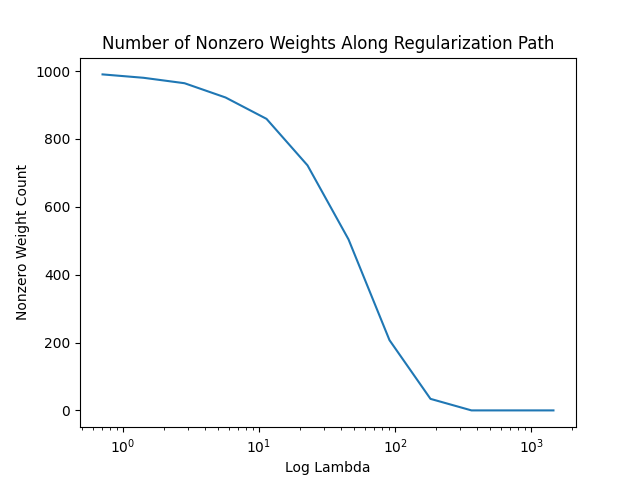
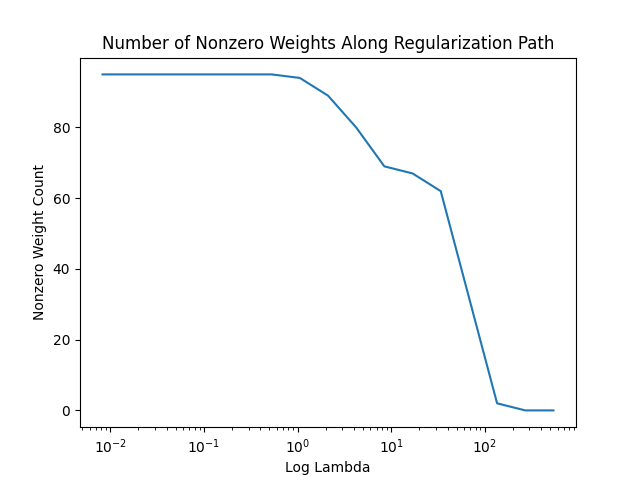
Complete hw2

diff --git a/hw2-A/homeworks/lasso/crime_data_lasso.py b/hw2-A/homeworks/lasso/crime_data_lasso.py
@@ -15,7 +15,75 @@ def main():
     # Make sure you split them into observations and targets
     df_train, df_test = load_dataset("crime")
 
-    raise NotImplementedError("Your Code Goes Here")
+    y_train = df_train["ViolentCrimesPerPop"]
+    X_train = df_train.drop("ViolentCrimesPerPop", axis = 1)
+
+    y_test = df_test["ViolentCrimesPerPop"]
+    X_test = df_test.drop("ViolentCrimesPerPop", axis = 1)
+
+    lambda_max = 2 * max(np.abs(np.matmul(X_train.T, y_train - np.mean(y_train))))
+    _lambda = np.array([lambda_max])
+    weights = np.zeros((1, X_train.shape[1]))
+    num_nonzero = np.array([0])
+
+    while (_lambda[_lambda.size - 1] >= 0.01):
+        w_hat = train(X_train.values, y_train.values, _lambda[-1], start_bias = 0, start_weight = weights[-1])[0]
+        num_nonzero = np.append(num_nonzero, np.count_nonzero(w_hat))
+        weights = np.vstack([weights, w_hat])
+        _lambda = np.append(_lambda, _lambda[-1] / 2)
+
+    # Plot number of nonzero weights along regularization path (c)
+    plt.plot(_lambda, num_nonzero)
+    plt.title("Number of Nonzero Weights Along Regularization Path")
+    plt.xlabel("Log Lambda")
+    plt.ylabel("Nonzero Weight Count")
+    plt.xscale('log')
+    plt.savefig("regularization_path_plot.png")
+    plt.show()
+
+    plt.cla()
+    plt.clf()
+
+    # Plot regularization paths of weights (d)
+    vars = ["agePct12t29", "pctWSocSec", "pctUrban", "agePct65up", "householdsize"]
+    idx = X_train.columns.get_indexer(vars)
+
+    lines = plt.plot(_lambda, weights[:, idx])
+    plt.title("Regularization Path of Selected Weights")
+    plt.xlabel("Log Lambda")
+    plt.ylabel("Weights")
+    plt.xscale('log')
+    plt.legend(lines, vars)
+    plt.savefig("regularization_path_weights.png")
+    plt.show()
+
+    plt.cla()
+    plt.clf()
+
+    # Plot squared error against lambda (e)
+    sse_train = np.zeros(_lambda.size)
+    sse_test = np.zeros(_lambda.size)
+    for i in range(_lambda.size):
+        y_hat_train = np.matmul(X_train, weights[i, :])
+        y_hat_test = np.matmul(X_test, weights[i, :])
+        sse_train[i] = np.matmul((y_train - y_hat_train).T, y_train - y_hat_train)
+        sse_test[i] = np.matmul((y_test - y_hat_test).T, y_test - y_hat_test)
+
+    sse = np.vstack((sse_train, sse_test))
+    lines = plt.plot(_lambda, sse.T)
+    plt.title("Regularization Path of Squared Error")
+    plt.xlabel("Log Lambda")
+    plt.ylabel("SSE")
+    plt.xscale('log')
+    plt.legend(lines, ["Train SSE", "Test SSE"])
+    plt.savefig("regularization_path_sse.png")
+    plt.show()
+
+    # Extreme weights for fixed lambda (f)
+    w_hat = train(X_train.values, y_train.values, _lambda = 30)[0]
+    print(f"The maximum w_hat is {np.max(w_hat)}, which is on {X_train.columns[np.argmax(w_hat)]}")
+    print(f"The minimum w_hat is {np.min(w_hat)}, which is on {X_train.columns[np.argmin(w_hat)]}")
+
 
 if __name__ == "__main__":
     main()